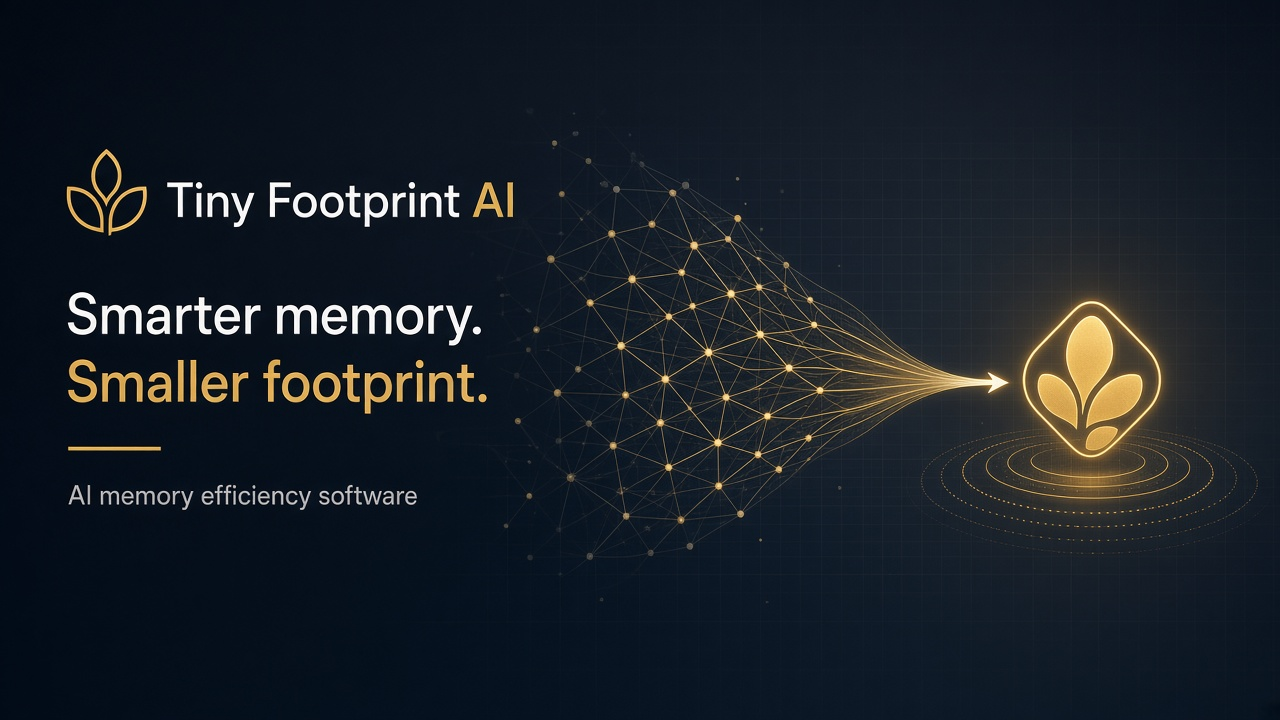
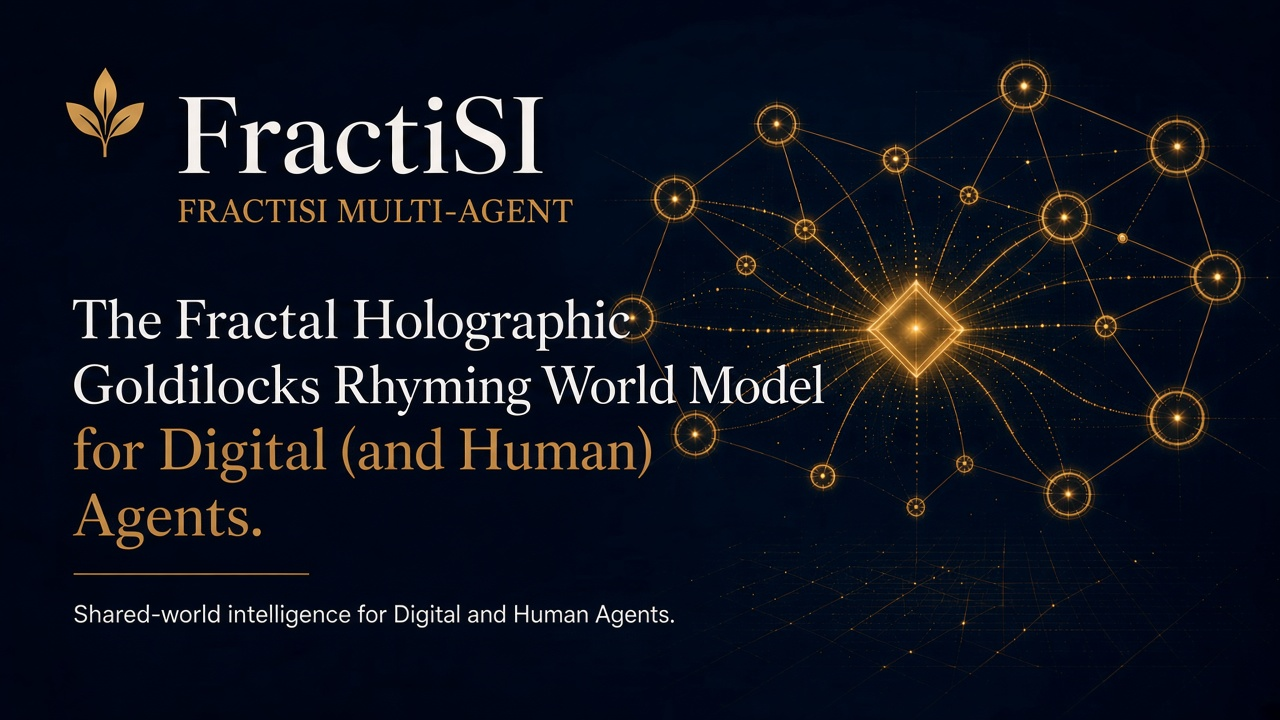
Brand ours as Rhyming World Model across surfaces and hero art
Rename FractiSI product/architecture “World Model” naming to Rhyming
World Model on product pages, ship blogs, papers, registry, and voice
copy. Keep third-party open-source world-model references unchanged.
Refresh the FractiSI/tiny-footprint hero image so baked title text
matches.

Changed region(s): [[0.0312, 0.0611, 1.0, 0.825], [0.0312, 0.0917, 0.4688, 0.3361], [0.0625, 0.7944, 0.5312, 0.8861]]

diff --git a/interfaces/blog-nvidia-goldilocks-moment-2026-11.html b/interfaces/blog-nvidia-goldilocks-moment-2026-11.html
@@ -5,10 +5,10 @@
   <script src="/interfaces/vbi18n-failopen.js"></script>
   <meta charset="UTF-8" />
   <meta name="viewport" content="width=device-width, initial-scale=1, viewport-fit=cover" />
-  <title>Do NVIDIA and Jensen Huang Need a New World Model More Than a New CEO? · Ship blog · SS Vibelandia</title>
+  <title>Do NVIDIA and Jensen Huang Need a New Rhyming World Model More Than a New CEO? · Ship blog · SS Vibelandia</title>
   <meta name="description" content="A FractiSI expedition: migrate from Legacy Linear to Fractal Holographic Goldilocks Awareness — safer, less costly, more sustainable, more enjoyable." />
   <link rel="canonical" href="https://www.ssvibelandiaquestfest24x365.com/ship-blog/nvidia-goldilocks-moment" />
-  <meta property="og:title" content="Do NVIDIA and Jensen Huang Need a New World Model More Than a New CEO?" />
+  <meta property="og:title" content="Do NVIDIA and Jensen Huang Need a New Rhyming World Model More Than a New CEO?" />
   <meta property="og:description" content="A Fractal Holographic Goldilocks Superintelligence Awareness Expedition — shared worlds, differentiated agents, consent, and measurable Goldilocks outcomes." />
   <meta property="og:type" content="article" />
   <meta property="og:image" content="https://www.ssvibelandiaquestfest24x365.com/interfaces/nvidia-goldilocks-moment-hero.jpg" />
@@ -32,19 +32,19 @@
     </nav>
     <header>
       <p class="kicker">Research note · Fractal Holographic Goldilocks Superintelligence Awareness Expedition</p>
-      <h1>Do NVIDIA and Jensen Huang Need a New World Model More Than a New CEO?</h1>
+      <h1>Do NVIDIA and Jensen Huang Need a New Rhyming World Model More Than a New CEO?</h1>
       <p class="dateline"><strong>FractiAI Research</strong> — November 15, 2026</p>
     </header>
 
-    <p class="answer"><strong>Short answer: Yes.</strong> As an organizational catalog note case: the expedition argues World Model migration (shared world vs private silos) and reports a controlled chain task of 0/100 vs 100/100 under matched budgets, plus a hosted-model arm. Leadership succession is not adjudicated.</p>
+    <p class="answer"><strong>Short answer: Yes.</strong> As an organizational catalog note case: the expedition argues Rhyming World Model migration (shared world vs private silos) and reports a controlled chain task of 0/100 vs 100/100 under matched budgets, plus a hosted-model arm. Leadership succession is not adjudicated.</p>
 
 
     <figure class="feature-figure">
       <img src="/interfaces/nvidia-goldilocks-moment-hero.jpg" alt="Expedition image: a luminous Goldilocks band between competing world models, suggesting architectural migration rather than a leadership swap." width="1600" height="900" />
-      <figcaption>The expedition asks whether NVIDIA’s next upgrade is a World Model migration — not merely a succession decision.</figcaption>
+      <figcaption>The expedition asks whether NVIDIA’s next upgrade is a Rhyming World Model migration — not merely a succession decision.</figcaption>
     </figure>
 
-    <p class="lead">The question facing increasingly capable human and digital intelligence is not only how to make each agent smarter. It is how to organize capable agents without suppressing what makes them capable, fragmenting their context, wasting rent and compute, raising unnecessary risk, or making daily participation harder and less pleasant. That is the center of a new FractiSI expedition. Jensen Huang is a highly visible leadership case inside NVIDIA’s ecosystem, and the deeper experiment asks whether the organization building infrastructure for next-generation intelligence will also experiment with the World Model that next-generation intelligence may require.</p>
+    <p class="lead">The question facing increasingly capable human and digital intelligence is not only how to make each agent smarter. It is how to organize capable agents without suppressing what makes them capable, fragmenting their context, wasting rent and compute, raising unnecessary risk, or making daily participation harder and less pleasant. That is the center of a new FractiSI expedition. Jensen Huang is a highly visible leadership case inside NVIDIA’s ecosystem, and the deeper experiment asks whether the organization building infrastructure for next-generation intelligence will also experiment with the Rhyming World Model that next-generation intelligence may require.</p>
 
     <h2>One world, many agents</h2>
     <p>The FractiSI Computational Lab tests shared worlds, differentiated agent deltas, and selective reconstruction so digital populations can coordinate without reprinting the same world into every head. The human side of the expedition asks whether the same architectural pattern can improve how people with very different levels of agency participate in organizations.</p>
@@ -52,37 +52,37 @@
 
     <h2>Legacy Linear versus Fractal Holographic Goldilocks</h2>
     <p>The Legacy Linear Awareness World Model organizes reality as discrete units chained through predefined relationships: agent, role, rule, plan, objective, hierarchy, reward, outcome. It thrives when environments are stable, tasks are well defined, agents are interchangeable, and success can be specified in advance. It also carries inherited human templates that standardize respectable behavior, rigid social roles, and artificial separations between private and public selves. When the model cannot represent legitimate variation, it compresses people until they fit—and the system pays in lost capability, extra enforcement, and friction that shows up in paychecks, retention, and trust.</p>
-    <p>The Fractal Holographic Goldilocks Awareness World Model coordinates differentiated agents through shared worlds, relationships, functional boundaries, feedback, and consent. It seeks greater useful capability with lower unnecessary risk, cost, waste, and friction. Rules and plans remain useful as contextual instruments, not as the entire architecture. Flow is not chaos. Consent is not the absence of boundaries. Openness is not the absence of privacy. The Goldilocks condition is enough structure to stay coherent and safe, enough freedom to preserve agency, enough adaptability to stay sustainable, and enough usability that participation is worth the rent of attention.</p>
+    <p>The Fractal Holographic Goldilocks Awareness Rhyming World Model coordinates differentiated agents through shared worlds, relationships, functional boundaries, feedback, and consent. It seeks greater useful capability with lower unnecessary risk, cost, waste, and friction. Rules and plans remain useful as contextual instruments, not as the entire architecture. Flow is not chaos. Consent is not the absence of boundaries. Openness is not the absence of privacy. The Goldilocks condition is enough structure to stay coherent and safe, enough freedom to preserve agency, enough adaptability to stay sustainable, and enough usability that participation is worth the rent of attention.</p>
 
     <h2>What we ran in the FractiSI Computational Lab</h2>
     <p>Two human operating configurations help make the mismatch visible without ranking human worth. Super-performers—sometimes called Players in this configuration sense—actively shape environments and often operate beyond standardized roles. Standard agents—sometimes called NPCs in the same configuration sense—have agency more strongly shaped by inherited roles, routines, incentives, and scripts. A person can move between configurations across contexts. Neither label is permanent moral status.</p>
     <p>The expedition suite now regenerates on real available data. Upstream Expedition 002 still posts 0 of 100 flat versus 100 of 100 guided on the six-hop board, with convergence from six rounds and forty operations to three and six, and Tiny Gateway aggregate near 84.5 percent. On public FRED series, a chronological walk-forward for next-month unemployment beat label-permuted training (RMSE 5.675 versus 6.115), with bag-of-features nearly tied—reported honestly. On Movebank moose herd metrics joined to archived Kp, chronological lag-1 structure for daily step and Kp far exceeded shuffle nulls (about 0.34 versus 0.04). A shared-world collaboration arm cut duplicated bytes by about 91 percent at matched direction accuracy; selective open state cut bytes about 87 percent at matched RMSE. A scorecard built from the E0–E6 measured dimensions still ranks Goldilocks first at 77.1 against control 67.3, competition-first 72.2, and unbounded openness 75.4. Later cognitive and synergy arms (E9–E12) support the same direction without rewriting that regenerable composite. Those are lab receipts, not NVIDIA KPIs. They ask whether more useful agents can share a world with less waste.</p>
 
     <h2>Hypothesis, the matched-budget test, and the scorecard</h2>
-    <p>Hypothesis: human and digital agents can be upgraded together by migrating the World Model through which they coordinate, rather than forcing increasingly capable agents into increasingly standardized structures. The test is broader than raw output. A system earns the Goldilocks label when it raises useful capability and collective intelligence while improving safety, cost efficiency, sustainability, agency, coherence, and the everyday quality of participation—whether the participant is an operator, a researcher, an engineer, or a digital agent reconstructing only the delta it needs.</p>
-    <p>We then ran the test that had been missing: <strong>same model, same prompt, same per-turn context budget, same round limit</strong>, with only the World Model changed. Each task is a six-step chain in which the answer sits at the end. In one arm every turn receives a private silo (forty lines of filler, then the record) cut to a 64-token budget. In the other, every turn receives only the current record and its link, under the same budget. A deterministic extractive agent solved <strong>0 of 100</strong> chains in the first arm and <strong>100 of 100</strong> in the second. That agent is a control, not an LLM, so we repeated the protocol with a real open-weight model, <code>gpt-oss-20b</code>, served through Groq at temperature 0, with the model’s own replies driving each round. Result: <strong>0 of 12</strong> with private silos at the 64-token budget, <strong>12 of 12</strong> with shared-world links at the same budget.</p>
+    <p>Hypothesis: human and digital agents can be upgraded together by migrating the Rhyming World Model through which they coordinate, rather than forcing increasingly capable agents into increasingly standardized structures. The test is broader than raw output. A system earns the Goldilocks label when it raises useful capability and collective intelligence while improving safety, cost efficiency, sustainability, agency, coherence, and the everyday quality of participation—whether the participant is an operator, a researcher, an engineer, or a digital agent reconstructing only the delta it needs.</p>
+    <p>We then ran the test that had been missing: <strong>same model, same prompt, same per-turn context budget, same round limit</strong>, with only the Rhyming World Model changed. Each task is a six-step chain in which the answer sits at the end. In one arm every turn receives a private silo (forty lines of filler, then the record) cut to a 64-token budget. In the other, every turn receives only the current record and its link, under the same budget. A deterministic extractive agent solved <strong>0 of 100</strong> chains in the first arm and <strong>100 of 100</strong> in the second. That agent is a control, not an LLM, so we repeated the protocol with a real open-weight model, <code>gpt-oss-20b</code>, served through Groq at temperature 0, with the model’s own replies driving each round. Result: <strong>0 of 12</strong> with private silos at the 64-token budget, <strong>12 of 12</strong> with shared-world links at the same budget.</p>
     <p>The qualification matters. The same model also solved <strong>12 of 12</strong> when the private silo was not truncated at all, so the budgeted failure comes from how context is assembled under a tight limit, not from a weak model. What the shared world bought was the same accuracy at roughly 1,275 tokens per task instead of roughly 5,986, about 4.7 times fewer. It is one model, twelve synthetic tasks, and a budget chosen tight enough to bite; a looser budget would narrow the gap, and we have not located where it closes.</p>
     <p>The unified experiment sequence moves from digital architecture to human architecture to super-performer integration to human-plus-digital teams to organizational migration from individual to ecosystem. Falsification stays on the table: if shared worlds give no coordination advantage, if appropriate autonomy hurts performance, if consent-based coordination systematically loses, if super-performer accommodation adds no measurable value, or if the migration raises complexity without safer/cheaper/more sustainable/more enjoyable outcomes, the model must change.</p>
 
     <h2>Why NVIDIA, and why not “just a new CEO”</h2>
-    <p>NVIDIA’s stack makes the human–digital transition unusually visible. Its technology increasingly shapes the computational environment in which the next generation of agents will operate. Jensen Huang is one visible leadership case inside that larger experiment. The research question is not whether one person should personally become different, and it is not whether succession alone solves World Model mismatch. It is whether an organization built to produce extraordinary capability can also build a World Model that accommodates extraordinary agents without converting capability into unrestricted authority—and whether that same model still works for standard agents, AI agents, teams, and ecosystems.</p>
+    <p>NVIDIA’s stack makes the human–digital transition unusually visible. Its technology increasingly shapes the computational environment in which the next generation of agents will operate. Jensen Huang is one visible leadership case inside that larger experiment. The research question is not whether one person should personally become different, and it is not whether succession alone solves Rhyming World Model mismatch. It is whether an organization built to produce extraordinary capability can also build a Rhyming World Model that accommodates extraordinary agents without converting capability into unrestricted authority—and whether that same model still works for standard agents, AI agents, teams, and ecosystems.</p>
     <p>A serious expedition starts with an audit of agent architecture, world representation, super-performer pathways, AI-agent density, boundary design, and organizational flow—where information stops, decisions wait, capability becomes invisible, and friction accumulates. Keep competition, hierarchy, profit, rules, and plans where they belong. Place them inside a larger architecture that adapts to the agents actually present. Core migration: from standardized agents inside predefined plans to differentiated agents inside a shared, adaptive world.</p>
-    <p>Read the companion whitepaper for the full protocol, scorecard, falsification conditions, and evidence table. The FractiSI kit remains available for anyone who wants the computational board beside the organizational question. Keep the human. Keep the capability. Upgrade the World Model. Let the pieces remain themselves. Synchronize the world.</p>
+    <p>Read the companion whitepaper for the full protocol, scorecard, falsification conditions, and evidence table. The FractiSI kit remains available for anyone who wants the computational board beside the organizational question. Keep the human. Keep the capability. Upgrade the Rhyming World Model. Let the pieces remain themselves. Synchronize the world.</p>
 
     
     <h2>Protein Folding as a Rhyme for Intelligence: From Linear Sequences to Relational Worlds</h2>
     <p>The novel part is not the protein-folding observation itself. It is the cross-domain rhyme we extract from it.</p>
-    <p>Protein folding is a concrete biological instance of a broader computational pattern: <strong>intelligence depends on recovering relational structure that is invisible in a linear representation.</strong> In plain form: the sequence holds the parts with incomplete local information; the relational map holds the long-range constraints; the fold is the coherent world those relationships produce. That maps onto multi-agent work without a false identity — individual messages are incomplete locally; a shared World Model holds relationships among them; coordinated behavior produces a coherent collective world.</p>
-    <p>The rhyme is not that proteins are like agents. The rhyme is that both problems — and others — hide information in relationships that isolated linear streams struggle to recover. In the deepest cut: <strong>a World Model is a computational fold.</strong> The sequence contains the parts. The relational structure contains the constraints. The fold is the coherent world.</p>
+    <p>Protein folding is a concrete biological instance of a broader computational pattern: <strong>intelligence depends on recovering relational structure that is invisible in a linear representation.</strong> In plain form: the sequence holds the parts with incomplete local information; the relational map holds the long-range constraints; the fold is the coherent world those relationships produce. That maps onto multi-agent work without a false identity — individual messages are incomplete locally; a shared Rhyming World Model holds relationships among them; coordinated behavior produces a coherent collective world.</p>
+    <p>The rhyme is not that proteins are like agents. The rhyme is that both problems — and others — hide information in relationships that isolated linear streams struggle to recover. In the deepest cut: <strong>a Rhyming World Model is a computational fold.</strong> The sequence contains the parts. The relational structure contains the constraints. The fold is the coherent world.</p>
     <p>Core hypothesis: intelligence is not only the ability to process elements. It is the ability to recover and operate over the relationships that make those elements part of a coherent world.</p>
 
     <h2>Three claims, kept separate</h2>
     <p><strong>Known.</strong> Protein folding depends heavily on long-range interactions. Related-family methods can reveal constraints a single sequence does not make obvious.</p>
     <p><strong>Interesting.</strong> The same computational structure shows up in knowledge work and macroeconomic reasoning: answers can depend on relationships between elements rather than on elements taken alone or only in order.</p>
-    <p><strong>Potentially novel.</strong> “Rhyme” as the common abstraction — different domains instantiate the same reusable organization: a linear representation becomes more informative when embedded in a relational World Model. That third claim is where FractiSI can make a real conceptual contribution, and it must stay proportionate to the evidence.</p>
+    <p><strong>Potentially novel.</strong> “Rhyme” as the common abstraction — different domains instantiate the same reusable organization: a linear representation becomes more informative when embedded in a relational Rhyming World Model. That third claim is where FractiSI can make a real conceptual contribution, and it must stay proportionate to the evidence.</p>
 
     <h2>What the protein lab actually showed</h2>
-    <p>On sixteen real public protein cases, the same hosted open-weight model recovered the true long-range partner on <strong>10 of 16</strong> tasks with an explicit relational map, and on <strong>0 of 16</strong> from the linear sequence alone. Dumping the same family material flat also scored 0 of 16. Protocol in plain terms: same model; linear baseline; flat dump baseline; relational World Model condition; predefined exact-partner success; public data; regenerable receipts. Representation is the point. What still needs tightening before this is settled science: blinded evaluation, independent replication, published prompts and item lists, matched token budgets per arm, and formal uncertainty. The contrast is striking enough that the protocol should stay transparent.</p>
+    <p>On sixteen real public protein cases, the same hosted open-weight model recovered the true long-range partner on <strong>10 of 16</strong> tasks with an explicit relational map, and on <strong>0 of 16</strong> from the linear sequence alone. Dumping the same family material flat also scored 0 of 16. Protocol in plain terms: same model; linear baseline; flat dump baseline; relational Rhyming World Model condition; predefined exact-partner success; public data; regenerable receipts. Representation is the point. What still needs tightening before this is settled science: blinded evaluation, independent replication, published prompts and item lists, matched token budgets per arm, and formal uncertainty. The contrast is striking enough that the protocol should stay transparent.</p>
 
     <h2>The same rhyme across domains</h2>
     <p>Progression: protein (sequence → couplings → fold) · knowledge (documents → source relationships → answer) · macroeconomy (time series → cross-series relationships → structure) · multi-agent systems (agents and messages → shared relationships → collective world).</p>

diff --git a/interfaces/index.html b/interfaces/index.html
@@ -303,7 +303,7 @@
     <li data-search="/interfaces/blog-nine-digits-ninety-nine-octaves-2026-08.html can nine digits map onto ninety-nine octave bands as one shared coordinate grammar? · ship blog · ss vibelandia"><a href="/interfaces/blog-nine-digits-ninety-nine-octaves-2026-08.html"><code>/interfaces/blog-nine-digits-ninety-nine-octaves-2026-08.html</code><span class="ix-title">Can Nine Digits Map Onto Ninety-Nine Octave Bands as One Shared Coordinate Grammar? · Ship blog · SS Vibelandia</span></a></li>
     <li data-search="/interfaces/blog-npy-sod1-rhyme-validation-2026-11.html when existing als wet labs wire npy to sod1, is that a new discovery? · ship blog · ss vibelandia"><a href="/interfaces/blog-npy-sod1-rhyme-validation-2026-11.html"><code>/interfaces/blog-npy-sod1-rhyme-validation-2026-11.html</code><span class="ix-title">When Existing ALS Wet Labs Wire NPY to SOD1, Is That a New Discovery? · Ship blog · SS Vibelandia</span></a></li>
     <li data-search="/interfaces/blog-nspfrnp-snap-peer-review-audit.html does nspfrnp snap peer-review audit keep paper claims honest before featuring? · ship blog · ss vibelandia"><a href="/interfaces/blog-nspfrnp-snap-peer-review-audit.html"><code>/interfaces/blog-nspfrnp-snap-peer-review-audit.html</code><span class="ix-title">Does NSPFRNP Snap Peer-Review Audit Keep Paper Claims Honest Before Featuring? · Ship blog · SS Vibelandia</span></a></li>
-    <li data-search="/interfaces/blog-nvidia-goldilocks-moment-2026-11.html do nvidia and jensen huang need a new world model more than a new ceo? · ship blog · ss vibelandia"><a href="/interfaces/blog-nvidia-goldilocks-moment-2026-11.html"><code>/interfaces/blog-nvidia-goldilocks-moment-2026-11.html</code><span class="ix-title">Do NVIDIA and Jensen Huang Need a New World Model More Than a New CEO? · Ship blog · SS Vibelandia</span></a></li>
+    <li data-search="/interfaces/blog-nvidia-goldilocks-moment-2026-11.html do nvidia and jensen huang need a new world model more than a new ceo? · ship blog · ss vibelandia"><a href="/interfaces/blog-nvidia-goldilocks-moment-2026-11.html"><code>/interfaces/blog-nvidia-goldilocks-moment-2026-11.html</code><span class="ix-title">Do NVIDIA and Jensen Huang Need a New Rhyming World Model More Than a New CEO? · Ship blog · SS Vibelandia</span></a></li>
     <li data-search="/interfaces/blog-official-prospectus-2026-08.html does the s.s. vibelandia prospectus define a reproducible three-beat grand arc? · ship blog · ss vibelandia"><a href="/interfaces/blog-official-prospectus-2026-08.html"><code>/interfaces/blog-official-prospectus-2026-08.html</code><span class="ix-title">Does the S.S. Vibelandia Prospectus Define a Reproducible Three-Beat Grand Arc? · Ship blog · SS Vibelandia</span></a></li>
     <li data-search="/interfaces/blog-omniversal-goldilocks-rideshare.html does the omniversal goldilocks rideshare protocol lower routing overhead compared with car-based delivery? · ship blog ·"><a href="/interfaces/blog-omniversal-goldilocks-rideshare.html"><code>/interfaces/blog-omniversal-goldilocks-rideshare.html</code><span class="ix-title">Does the Omniversal Goldilocks Rideshare Protocol Lower Routing Overhead Compared with Car-Based Delivery? · Ship blog ·</span></a></li>
     <li data-search="/interfaces/blog-omniversal-nested-agent-lattice.html does a nested parent-child agent lattice use fewer tokens than a flat mesh? · ship blog · ss vibelandia"><a href="/interfaces/blog-omniversal-nested-agent-lattice.html"><code>/interfaces/blog-omniversal-nested-agent-lattice.html</code><span class="ix-title">Does a Nested Parent-Child Agent Lattice Use Fewer Tokens Than a Flat Mesh? · Ship blog · SS Vibelandia</span></a></li>

diff --git a/interfaces/tiny-footprint-product.html b/interfaces/tiny-footprint-product.html
@@ -8,7 +8,7 @@
   <title>FractiSI Multi-Agent · Shared-world intelligence &amp; convergence</title>
   <meta name="description" content="FractiSI Multi-Agent: shared-world intelligence and convergence. Tiny Footprint core · Tiny Gateway™. Community free · Pro $59 · Team $299." />
   <link rel="canonical" href="https://www.ssvibelandiaquestfest24x365.com/tiny-footprint" />
-  <meta property="og:title" content="FractiSI Multi-Agent · The Fractal Holographic Goldilocks World Model" />
+  <meta property="og:title" content="FractiSI Multi-Agent · The Fractal Holographic Goldilocks Rhyming World Model" />
   <meta property="og:image" content="/interfaces/media/tiny-footprint/tiny-footprint-hero.jpg" />
   <link rel="preconnect" href="https://fonts.googleapis.com" />
   <link href="https://fonts.googleapis.com/css2?family=Bebas+Neue&family=Cormorant+Garamond:wght@500;600;700&family=IBM+Plex+Sans:wght@400;600;700;800&display=swap" rel="stylesheet" />
@@ -41,7 +41,7 @@
     <div class="tf-hero__content">
       <p class="tf-kicker">FractiSI · flagship product · Tiny Footprint core · Tiny Gateway™</p>
       <h1 class="tf-brand">FractiSI Multi-Agent</h1>
-      <p class="tf-tagline">The Fractal Holographic Goldilocks World Model for Digital (and Human) Agents.</p>
+      <p class="tf-tagline">The Fractal Holographic Goldilocks Rhyming World Model for Digital (and Human) Agents.</p>
       <p class="tf-sub">One shared world for your agents, and it recognizes repeat work even when the words change: <strong>33% to 49% smaller</strong> messages, <strong>100 of 100</strong> hidden answers found vs 0, <strong>36–62×</strong> more agents per machine. Beside the AI you already run.</p>
       <div class="tf-cta">
         <a class="tf-cta__gold" href="/tiny-footprint/download">Try FractiSI Multi-Agent</a>
@@ -79,7 +79,7 @@
 
     <section class="tf-plan-strip" role="region" aria-label="Pricing plans">
       <h2>Pricing plans</h2>
-      <p class="tf-plan-promise">The Fractal Holographic Goldilocks World Model for Digital (and Human) Agents.</p>
+      <p class="tf-plan-promise">The Fractal Holographic Goldilocks Rhyming World Model for Digital (and Human) Agents.</p>
       <div class="tf-plans">
         <div class="tf-plan">
           <span class="name">Community</span>
@@ -148,8 +148,8 @@
       <p class="tf-diff-foot">Architectural / structured-state labs — not CapEx guarantees, not an LLM bake-off, not established “80% DRAM for AI serving.” <a href="/ship-blog/fractisi-expedition-002-beyond-memory">Exp 002</a> · <a href="/whitepaper/tiny-gateway-rhyming-templates">Tiny Gateway</a> · <a href="/fractisi/pricing">Pricing</a>.</p>
     </section>
 
-        <section class="tf-diff-board" id="rhyme-features" role="region" aria-label="What makes the world model different">
-      <h2>What makes the world model different: rhyme</h2>
+        <section class="tf-diff-board" id="rhyme-features" role="region" aria-label="What makes the Rhyming World Model different">
+      <h2>What makes the Rhyming World Model different: rhyme</h2>
       <p class="tf-diff-why">Rhyme means recognizing the pattern, not just the words. It shows up in five features. Pilot Rhyme is new.</p>
       <div class="tf-diff-stats">
         <div class="tf-diff-stat">

diff --git a/interfaces/blog-pilot-rhyme-expedition-2026-11.html b/interfaces/blog-pilot-rhyme-expedition-2026-11.html
@@ -6,7 +6,7 @@
   <meta charset="UTF-8" />
   <meta name="viewport" content="width=device-width, initial-scale=1, viewport-fit=cover" />
   <title>Does a Director/Pilot Role Rhyme Beat Flat Peers on Multi-Hop Coordination and Exact-Text Caches on Store Size? · Ship blog · SS Vibelandia</title>
-  <meta name="description" content="A new World Model rhyme feature. Director and Pilot seats share one world. 100 of 100 missions found vs 0 for flat peers; 22% smaller than an exact-text role cache that never hit." />
+  <meta name="description" content="A new Rhyming World Model rhyme feature. Director and Pilot seats share one world. 100 of 100 missions found vs 0 for flat peers; 22% smaller than an exact-text role cache that never hit." />
   <link rel="canonical" href="https://www.ssvibelandiaquestfest24x365.com/ship-blog/pilot-rhyme-expedition" />
   <meta property="og:title" content="Does a Director/Pilot Role Rhyme Beat Flat Peers on Multi-Hop Coordination and Exact-Text Caches on Store Size?" />
   <meta property="og:description" content="Does a Director/Pilot role rhyme beat flat peers on coordination, and beat an exact-text cache when mission wording differs?" />
@@ -58,7 +58,7 @@
     <p>The same Director and Pilot seats also run on the public sky and genome panels used elsewhere in the rhyme work. Flat peers that only see nearby rows recover none of the long-range held-out partners. With the Director holding the relationship map and Pilots holding local slices in one shared world, Pilot Rhyme recovers every long-range task in the lab and lists hundreds of named pairs — exoplanet couples such as Kepler-607 c with TOI-1758 b, close-approach encounter pairs, deep-sky object pairs, microwave multipole pairs, and demo exon pairs such as INS with POMC. Those rows are candidates for follow-up, not finished discoveries, and the genome panel stays a demonstration.</p>
 
     <h2>Why this earns a feature seat</h2>
-    <p>FractiSI Multi-Agent’s World Model now carries five rhyme features. Rhyming Templates reuse structure across sessions. Shared-World Rhyme lets agents that each see a slice write into one world. Protein Folding Rhyme turns a sequence into a relationship board. LLM Rhyme writes that board as a language pack a model can use. Pilot Rhyme is the coordination seat: Director holds the map, Pilots run local steps, roles live once, missions arrive as deltas.</p>
+    <p>FractiSI Multi-Agent’s Rhyming World Model now carries five rhyme features. Rhyming Templates reuse structure across sessions. Shared-World Rhyme lets agents that each see a slice write into one world. Protein Folding Rhyme turns a sequence into a relationship board. LLM Rhyme writes that board as a language pack a model can use. Pilot Rhyme is the coordination seat: Director holds the map, Pilots run local steps, roles live once, missions arrive as deltas.</p>
     <p>For teams hiring agents the way they hire people — one lead with the plan, several hands on local tickets — that is the pattern that shows up on the floor. The lab says the pattern finds the chain when flat skimming does not, and that keeping it as a rhyme costs less space than pretending every new wording is a brand-new packet.</p>
 
     <h2>Invitation</h2>

diff --git a/interfaces/fractisi.html b/interfaces/fractisi.html
@@ -36,7 +36,7 @@
     <div class="tf-hero__content">
       <p class="tf-kicker">Nevada commercial vehicle · FractiSI Multi-Agent flagship · FractiAI research spine</p>
       <h1 class="tf-brand">FractiSI</h1>
-      <p class="tf-tagline">FractiSI Multi-Agent · The Fractal Holographic Goldilocks World Model for Digital (and Human) Agents.</p>
+      <p class="tf-tagline">FractiSI Multi-Agent · The Fractal Holographic Goldilocks Rhyming World Model for Digital (and Human) Agents.</p>
       <p class="tf-sub">Agent teams waste most of their effort rereading the same context. FractiSI gives them one shared world and recognizes repeat work even when the words change: <strong>33% to 49% smaller</strong> messages, <strong>100 of 100</strong> hidden answers found vs 0, <strong>5× to 20×</strong> more accurate predictions when agents share a world. Local, Server, Cloud.</p>
       <div class="tf-cta">
         <a class="tf-cta__gold" href="/fractisi/recruit">Founding executive opportunity</a>
@@ -73,7 +73,7 @@
 
     <section class="tf-plan-strip" role="region" aria-label="Pricing plans">
       <h2>Pricing plans</h2>
-      <p class="tf-plan-promise">The Fractal Holographic Goldilocks World Model for Digital (and Human) Agents.</p>
+      <p class="tf-plan-promise">The Fractal Holographic Goldilocks Rhyming World Model for Digital (and Human) Agents.</p>
       <div class="tf-plans">
         <div class="tf-plan">
           <span class="name">Community</span>
@@ -142,8 +142,8 @@
       <p class="tf-diff-foot">Architectural / structured-state labs — not CapEx guarantees, not an LLM bake-off, not established “80% DRAM for AI serving.” <a href="/ship-blog/fractisi-expedition-002-beyond-memory">Exp 002</a> · <a href="/whitepaper/tiny-gateway-rhyming-templates">Tiny Gateway</a> · <a href="/fractisi/pricing">Pricing</a>.</p>
     </section>
 
-        <section class="tf-diff-board" id="rhyme-features" role="region" aria-label="What makes the world model different">
-      <h2>What makes the world model different: rhyme</h2>
+        <section class="tf-diff-board" id="rhyme-features" role="region" aria-label="What makes the Rhyming World Model different">
+      <h2>What makes the Rhyming World Model different: rhyme</h2>
       <p class="tf-diff-why">Rhyme means recognizing the pattern, not just the words. It shows up in five features — and now a wiring wet lab on top.</p>
       <div class="tf-diff-stats">
         <div class="tf-diff-stat">

diff --git a/interfaces/vibelandia-questfest.html b/interfaces/vibelandia-questfest.html
@@ -784,7 +784,7 @@
         </p>
         <p class="host-dispatch__news" id="host-dispatch-news">
           <span class="host-dispatch__news-label" id="host-news-label">News of the day · Wednesday, November 18</span>
-          <span id="host-news-body">Something new just shipped on the board. Today’s care is one Goldilocks move: not too much information, not too little meaning — pick the note that fits today’s noticing.<br /><br />If you want a map for that: <a href="/ship-blog/cosmic-rhyme-expedition">What We Found Looking at the Sky Through a Protein-Folding Lens</a>. Also new on the board: <a href="/ship-blog/nvidia-goldilocks-moment">What Both Jensen Huang and NVIDIA Need Is a New World Model, Not a New CEO</a>.<br /><br />What to do with it today: listen when the field gets loud, claim a little personal space, make something true, prune what no longer serves. Lattice Chat is ready when you want to build; Collaborate keeps seats in the same room. Music is free on the jukebox. And I remain your host in Downtown Reno — when you need a human hand, I’m here.</span>
+          <span id="host-news-body">Something new just shipped on the board. Today’s care is one Goldilocks move: not too much information, not too little meaning — pick the note that fits today’s noticing.<br /><br />If you want a map for that: <a href="/ship-blog/cosmic-rhyme-expedition">What We Found Looking at the Sky Through a Protein-Folding Lens</a>. Also new on the board: <a href="/ship-blog/nvidia-goldilocks-moment">What Both Jensen Huang and NVIDIA Need Is a New Rhyming World Model, Not a New CEO</a>.<br /><br />What to do with it today: listen when the field gets loud, claim a little personal space, make something true, prune what no longer serves. Lattice Chat is ready when you want to build; Collaborate keeps seats in the same room. Music is free on the jukebox. And I remain your host in Downtown Reno — when you need a human hand, I’m here.</span>
         </p>
         <p class="host-dispatch__sign">
           — Valet Pru<br />

diff --git a/interfaces/omni-lattice-textbook.html b/interfaces/omni-lattice-textbook.html
@@ -1260,7 +1260,7 @@ padding-left: 1.15rem;
 <li><a href="/whitepaper/tiny-reality-generation-model">#50 · Tiny Reality Generation Model: Triadic�Polygon�Octave Tree on Folded DNA</a> · <a href="/ship-blog/tiny-reality-generation-model">ship note</a></li>
 <li><a href="/whitepaper/trgm-predictive-reality-catalog">#51 · TRGM #51: Independent Predictive Validation and Functional Reality Catalog</a> · <a href="/ship-blog/trgm-predictive-reality-catalog">ship note</a></li>
 <li><a href="/whitepaper/tiny-gateway-rhyming-templates">#52 · Tiny Gateway: Rhyming Templates and a New Architecture for Memory-Efficient Computing</a> · <a href="/ship-blog/tiny-gateway-rhyming-templates">ship note</a></li>
-<li><a href="/whitepaper/nvidia-goldilocks-awareness-expedition">#53 · What Both Jensen Huang and NVIDIA Need Is a New World Model, Not a New CEO — Fractal Holographic Goldilocks Superintelligence Awareness Expedition</a> · <a href="/ship-blog/nvidia-goldilocks-awareness-expedition">ship note</a></li>
+<li><a href="/whitepaper/nvidia-goldilocks-awareness-expedition">#53 · What Both Jensen Huang and NVIDIA Need Is a New Rhyming World Model, Not a New CEO — Fractal Holographic Goldilocks Superintelligence Awareness Expedition</a> · <a href="/ship-blog/nvidia-goldilocks-awareness-expedition">ship note</a></li>
 <li><a href="/whitepaper/llm-rhyme-cosmic-genome">#54 · LLM Rhyme Expedition — Exploring the LLM Rhyme on Cosmic Catalogs and the Human Genome</a> · <a href="/ship-blog/llm-rhyme-cosmic-genome">ship note</a></li>
 <li><a href="/whitepaper/pilot-rhyme-expedition">#55 · Pilot Rhyme Expedition — Director and Pilot Seats that Share One World</a> · <a href="/ship-blog/pilot-rhyme-expedition">ship note</a></li>
 </ol>

diff --git a/interfaces/omni-lattice-course.html b/interfaces/omni-lattice-course.html
@@ -126,7 +126,7 @@
 <li><a href="/whitepaper/tiny-reality-generation-model">#50 · Tiny Reality Generation Model: Triadic�Polygon�Octave Tree on Folded DNA</a> · <a href="/ship-blog/tiny-reality-generation-model">ship note</a></li>
 <li><a href="/whitepaper/trgm-predictive-reality-catalog">#51 · TRGM #51: Independent Predictive Validation and Functional Reality Catalog</a> · <a href="/ship-blog/trgm-predictive-reality-catalog">ship note</a></li>
 <li><a href="/whitepaper/tiny-gateway-rhyming-templates">#52 · Tiny Gateway: Rhyming Templates and a New Architecture for Memory-Efficient Computing</a> · <a href="/ship-blog/tiny-gateway-rhyming-templates">ship note</a></li>
-<li><a href="/whitepaper/nvidia-goldilocks-awareness-expedition">#53 · What Both Jensen Huang and NVIDIA Need Is a New World Model, Not a New CEO — Fractal Holographic Goldilocks Superintelligence Awareness Expedition</a> · <a href="/ship-blog/nvidia-goldilocks-awareness-expedition">ship note</a></li>
+<li><a href="/whitepaper/nvidia-goldilocks-awareness-expedition">#53 · What Both Jensen Huang and NVIDIA Need Is a New Rhyming World Model, Not a New CEO — Fractal Holographic Goldilocks Superintelligence Awareness Expedition</a> · <a href="/ship-blog/nvidia-goldilocks-awareness-expedition">ship note</a></li>
 <li><a href="/whitepaper/llm-rhyme-cosmic-genome">#54 · LLM Rhyme Expedition — Exploring the LLM Rhyme on Cosmic Catalogs and the Human Genome</a> · <a href="/ship-blog/llm-rhyme-cosmic-genome">ship note</a></li>
 <li><a href="/whitepaper/pilot-rhyme-expedition">#55 · Pilot Rhyme Expedition — Director and Pilot Seats that Share One World</a> · <a href="/ship-blog/pilot-rhyme-expedition">ship note</a></li>
 </ol>

diff --git a/interfaces/fractisi-pricing.html b/interfaces/fractisi-pricing.html
@@ -24,7 +24,7 @@
     
     <section class="tf-plan-strip" role="region" aria-label="Pricing plans">
       <h2>Pricing plans</h2>
-      <p class="tf-plan-promise">The Fractal Holographic Goldilocks World Model for Digital (and Human) Agents.</p>
+      <p class="tf-plan-promise">The Fractal Holographic Goldilocks Rhyming World Model for Digital (and Human) Agents.</p>
       <div class="tf-plans">
         <div class="tf-plan">
           <span class="name">Community</span>
@@ -95,7 +95,7 @@
 
     <p class="tf-kicker">FractiSI Multi-Agent · Freemium · proposed launch pricing</p>
     <h1 class="tf-brand" style="font-size:clamp(2.2rem,7vw,3.4rem)">FractiSI Multi-Agent</h1>
-    <p class="tf-tagline"><strong>The Fractal Holographic Goldilocks World Model for Digital (and Human) Agents.</strong></p>
+    <p class="tf-tagline"><strong>The Fractal Holographic Goldilocks Rhyming World Model for Digital (and Human) Agents.</strong></p>
     <p><strong>Commercial principle:</strong> charge for coordinated intelligence capacity — discovery and convergence, not just coordination plumbing. Primary meter: concurrent coordinated agents (Pro 8 · Team 32). Revised Nov 2026: Pro <strong>$59</strong> · Team <strong>$299</strong> · Enterprise from <strong>$30k/yr</strong>.</p>
 
     <div class="tf-grid">

diff --git a/interfaces/tiny-footprint-local.html b/interfaces/tiny-footprint-local.html
@@ -24,7 +24,7 @@
     
     <section class="tf-plan-strip" role="region" aria-label="Pricing plans">
       <h2>Pricing plans</h2>
-      <p class="tf-plan-promise">The Fractal Holographic Goldilocks World Model for Digital (and Human) Agents.</p>
+      <p class="tf-plan-promise">The Fractal Holographic Goldilocks Rhyming World Model for Digital (and Human) Agents.</p>
       <div class="tf-plans">
         <div class="tf-plan">
           <span class="name">Community</span>
@@ -95,7 +95,7 @@
 
     <p class="tf-kicker">FractiSI Multi-Agent · Freemium · proposed launch pricing</p>
     <h1 class="tf-brand" style="font-size:clamp(2.2rem,7vw,3.4rem)">FractiSI Multi-Agent</h1>
-    <p class="tf-tagline"><strong>The Fractal Holographic Goldilocks World Model for Digital (and Human) Agents.</strong></p>
+    <p class="tf-tagline"><strong>The Fractal Holographic Goldilocks Rhyming World Model for Digital (and Human) Agents.</strong></p>
     <p><strong>Commercial principle:</strong> charge for coordinated intelligence capacity — discovery and convergence, not just coordination plumbing. Primary meter: concurrent coordinated agents (Pro 8 · Team 32). Revised Nov 2026: Pro <strong>$59</strong> · Team <strong>$299</strong> · Enterprise from <strong>$30k/yr</strong>.</p>
 
     <div class="tf-grid">

diff --git a/interfaces/tiny-footprint-brochure-print.html b/interfaces/tiny-footprint-brochure-print.html
@@ -23,7 +23,7 @@
     <img src="/interfaces/media/tiny-footprint/tiny-footprint-hero.jpg" alt="" style="width:100%;max-height:12rem;object-fit:cover;margin-bottom:1rem" />
     <p class="tf-kicker">FractiAI commercial offering</p>
     <h1 class="tf-brand" style="font-size:3rem">FRACTISI MULTI-AGENT</h1>
-    <p class="tf-tagline">The Fractal Holographic Goldilocks World Model for Digital (and Human) Agents.</p>
+    <p class="tf-tagline">The Fractal Holographic Goldilocks Rhyming World Model for Digital (and Human) Agents.</p>
     <p>Powered by Tiny Gateway™ and Rhyming Templates · Store it once. Reconstruct what you need. Respond faster.</p>
 
     <h2>Simple idea</h2>

diff --git a/interfaces/tiny-footprint-brochure.html b/interfaces/tiny-footprint-brochure.html
@@ -192,7 +192,7 @@
     
     <section class="tf-plan-strip" role="region" aria-label="Pricing plans">
       <h2>Pricing plans</h2>
-      <p class="tf-plan-promise">The Fractal Holographic Goldilocks World Model for Digital (and Human) Agents.</p>
+      <p class="tf-plan-promise">The Fractal Holographic Goldilocks Rhyming World Model for Digital (and Human) Agents.</p>
       <div class="tf-plans">
         <div class="tf-plan">
           <span class="name">Community</span>
